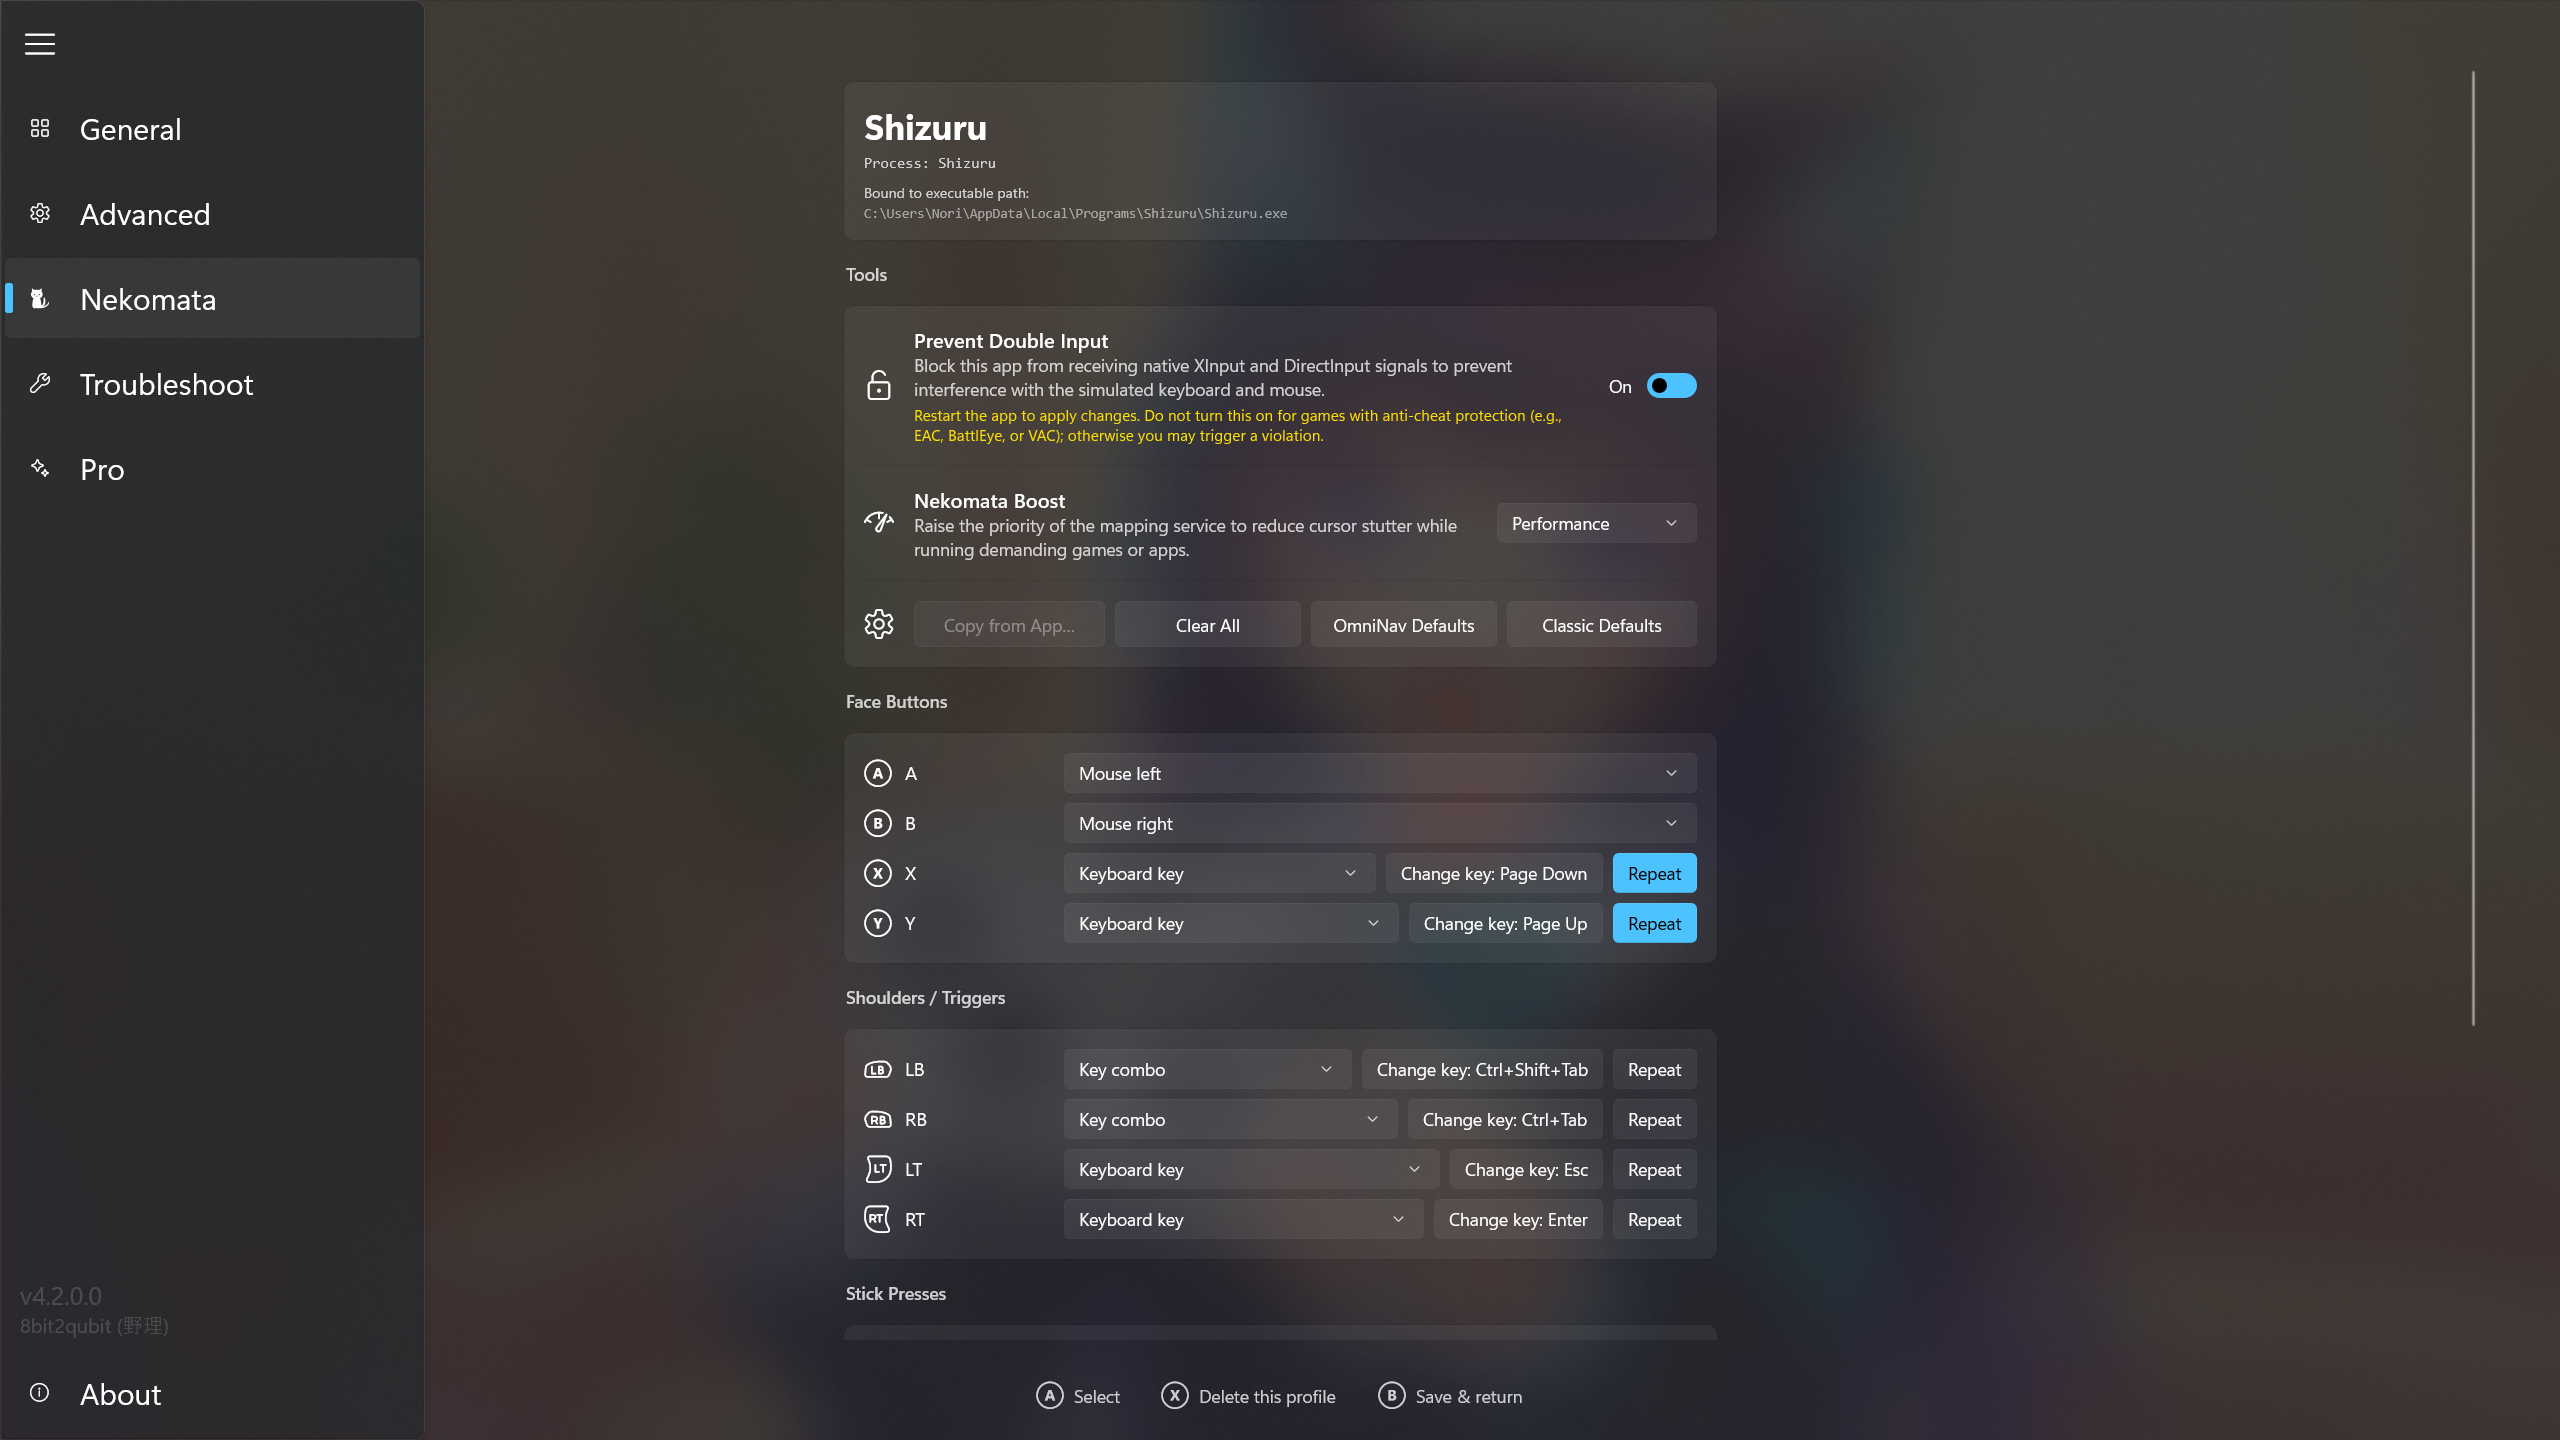
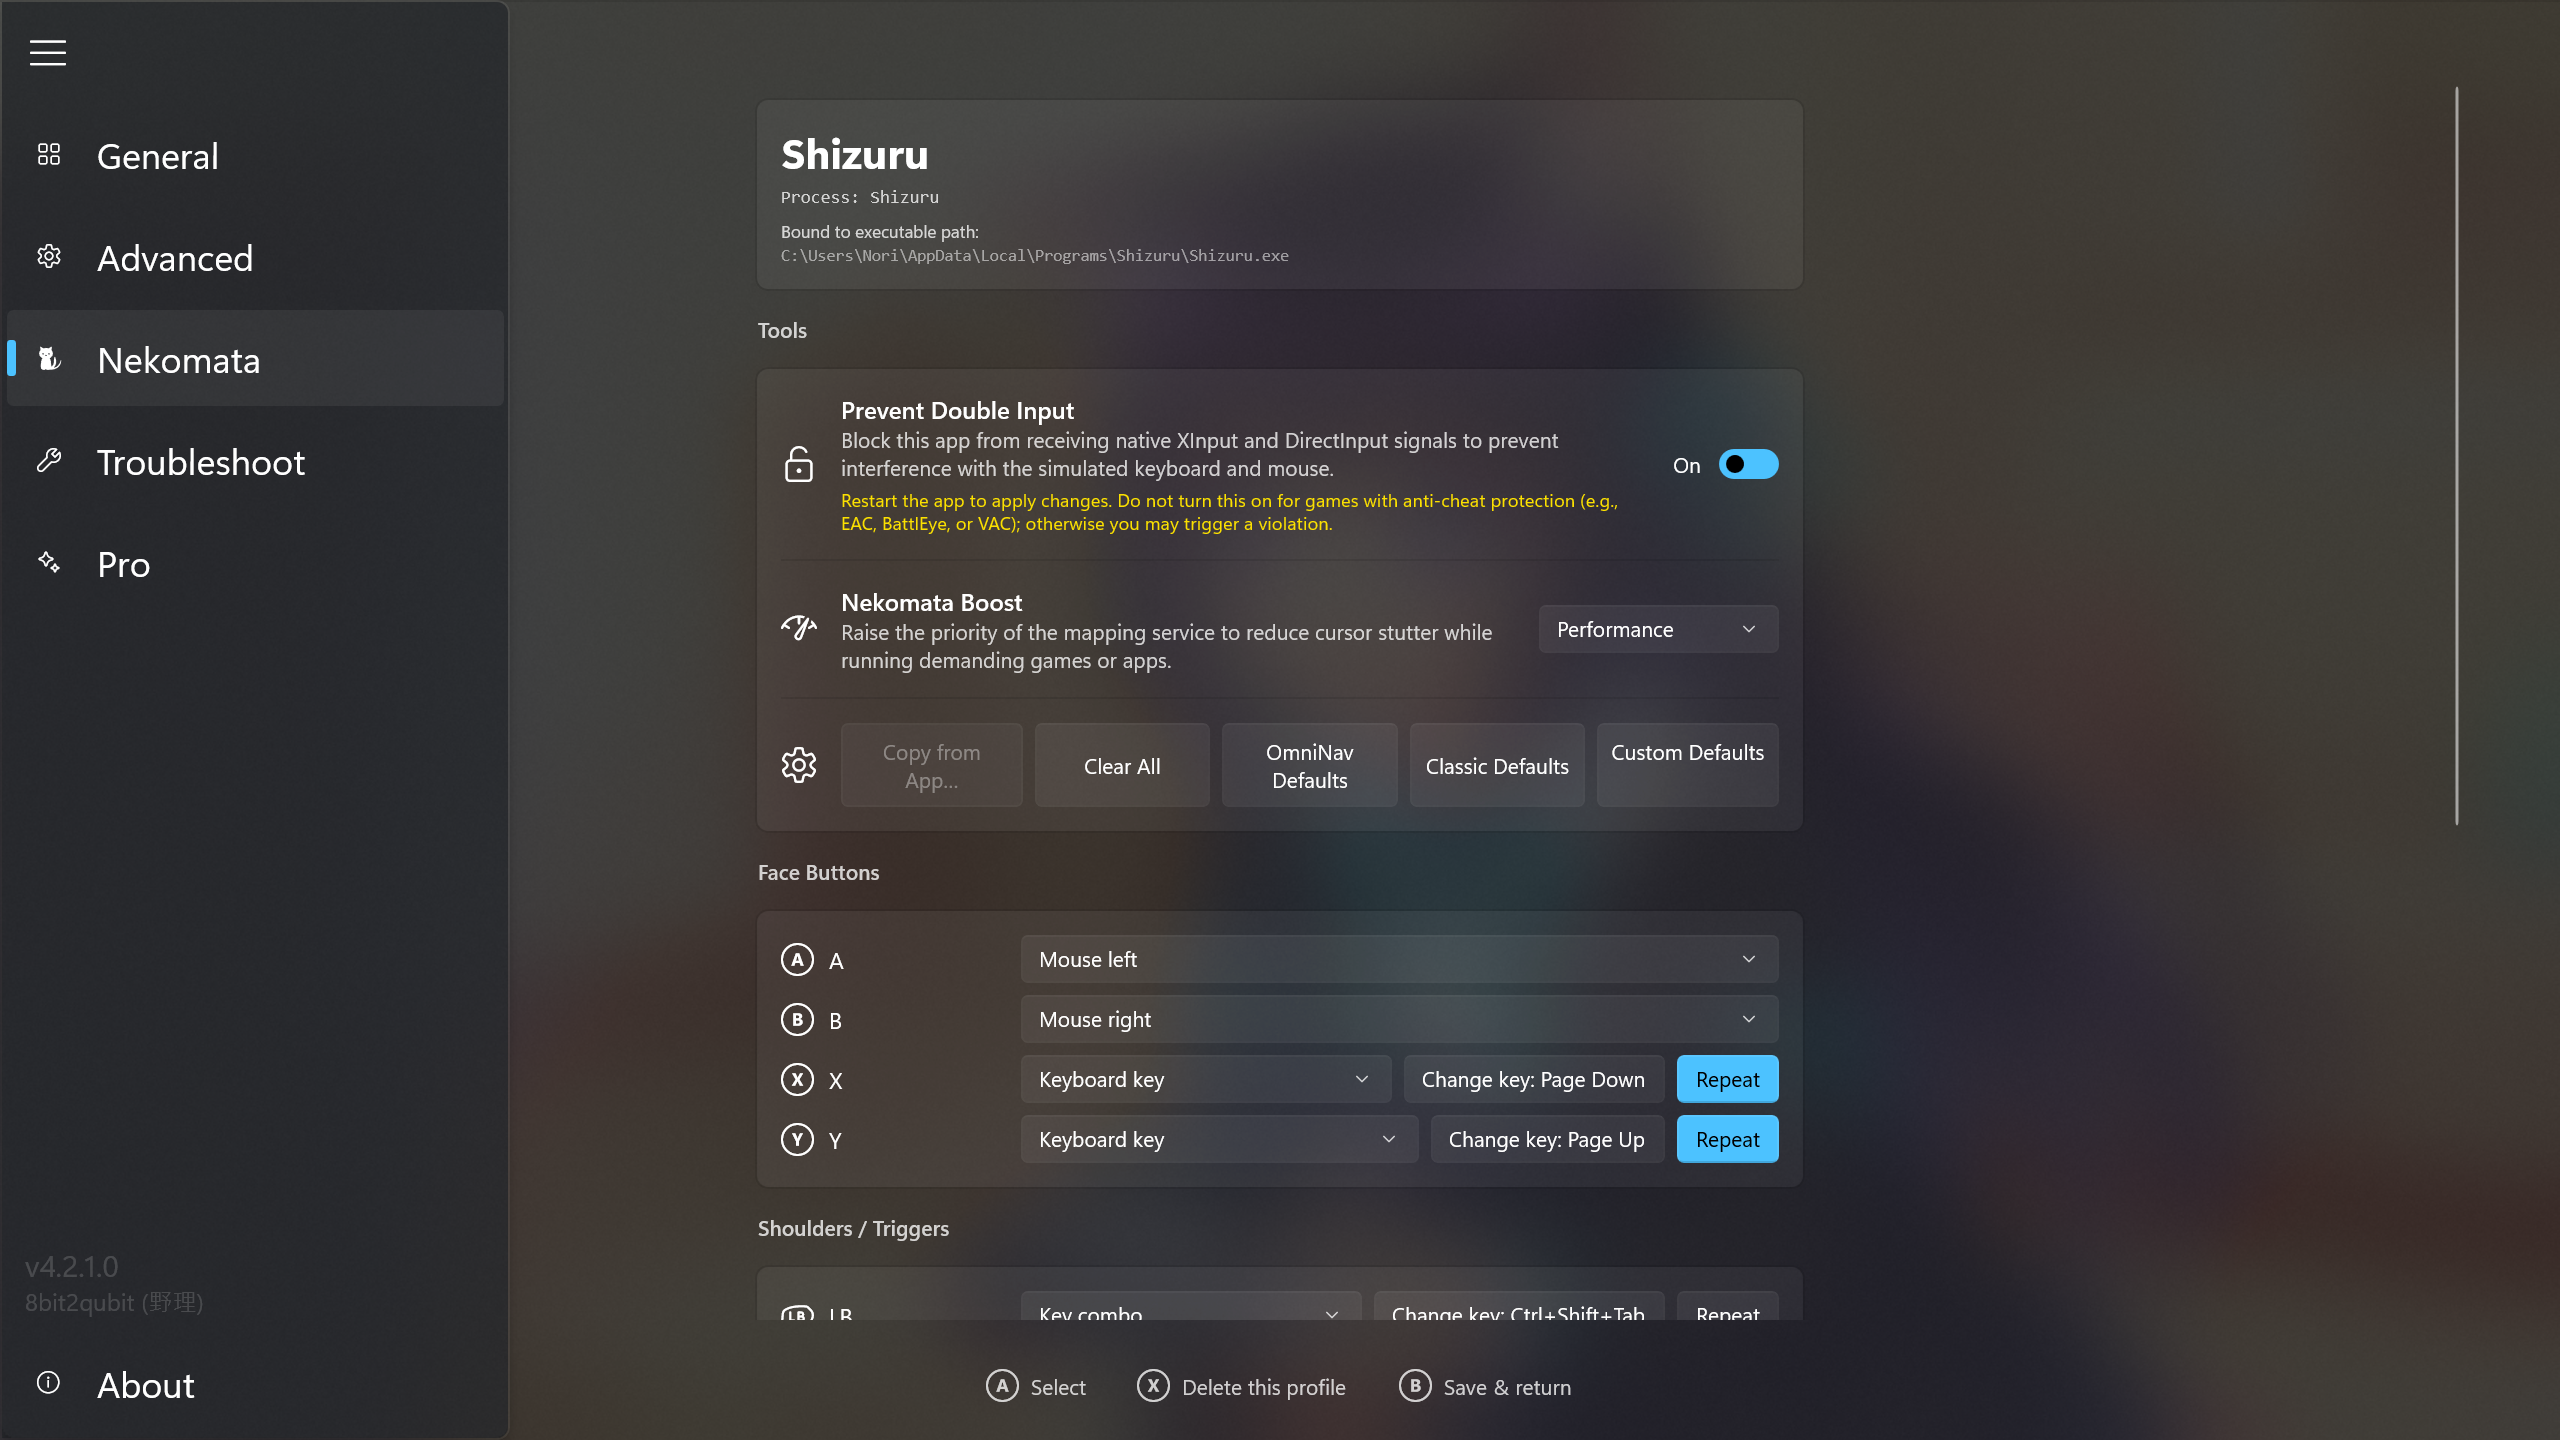
chore: Bump version to 4.2.1.0, guide first-time Xbox Mode (FSE) setup one step at a time, and refresh documentation screenshots

diff --git a/README.md b/README.md
@@ -49,7 +49,7 @@ Whenever Xbox Mode (FSE) activates, OmniConsole launches your configured gaming 
 - **Custom controller layout (Pro)** – Define your own default layout alongside OmniNav and Classic. Choose **Custom** under **Settings → Advanced → Nekomata → Controller Layout Preset**, then click **Edit…** to arrange the controller's inputs. Apps covered by built-in mapping pick it up right away, and every new app profile starts from it. The OmniCharm widget can switch to it as well.
 - **Administrator app support (Pro)** – Gamepad mappings reach apps and games that run as an administrator. Install it from **Settings → Advanced → Nekomata** and approve the administrator prompt, and Nekomata Mode extends to those apps, with the OmniCharm widget opening the mapping editor for them too.
 - **Screen keyboards from any button (Pro)** – Windows brings up a screen keyboard from Game Bar. Pro adds a direct route: assign one to a controller button and it opens without interrupting what you are doing. Pick the **Gamepad keyboard**, which you type on with the controller itself, or the classic **On-screen keyboard**, which you point at with the cursor. The On-screen keyboard also requires Administrator App Support.
-- **Nekomata Mode on the ROG Ally family (Pro)** – These consoles ship with the manufacturer's own gamepad mapping, and Nekomata defers to it. Pro makes that a choice: turn it on under **Settings → Advanced**, then set **Control Mode** to **Gamepad** in Command Center. Everything Nekomata does on a PC she does here too. It starts out off, and asks for confirmation the first time.
+- **Nekomata Mode on the ROG Ally family (Pro)** – These consoles ship with the manufacturer's own gamepad mapping, and Nekomata defers to it. Pro makes that a choice: turn it on under **Settings → Advanced**, then set **Control Mode** to **Gamepad** in Command Center. Everything Nekomata does on a desktop she does here too. It starts out off, and asks for confirmation the first time.
 - **Performance overlay controls (Pro)** – Game Bar comes with Microsoft's own **Performance** widget for watching your framerate and system usage while you play. Pro adds a separate set of controls for adjusting RivaTuner Statistics Server's on-screen display from inside OmniConsole. Under **Settings → Advanced → Performance Overlay** you can turn the on-screen display on or off, show framerate statistics, add a shadow behind the text, scale it up, and set a framerate limit. The OmniCharm widget carries the same controls on its **Overlay** tab, so they are within reach while a game is running. Requires Administrator App Support and RivaTuner Statistics Server.
 - **Gamepad Steam shortcuts** – The gamepad **⧉** button controls Steam Big Picture shortcuts: short press opens the **Steam Menu**, long press opens the **Quick Access Menu**. Long press **☰** in-game to open the **Steam In-Game Overlay**.
 - **Dedicated Settings entry** – A separate "**OmniConsole Settings**" entry in All Apps lets you change your default platform anytime.

diff --git a/README.zh-TW.md b/README.zh-TW.md
@@ -49,7 +49,7 @@ OmniConsole 在 PC 與掌機（ROG Xbox Ally X 等）上作為你的 Windows 11 
 - **自訂控制器版面（專業版）** – 在 OmniNav 與經典之外，自己定義一套預設版面。於**設定 → 進階 → 貓又 → 控制器預設版面**選擇**自訂**，再點 **編輯…** 編排手把的輸入位。內建映射涵蓋的程式會立即套用，新增的程式設定檔也以它為起點。OmniCharm 小工具同樣能切換到它。
 - **系統管理員程式支援（專業版）** – 手把映射能作用於以系統管理員身分執行的程式與遊戲。在**設定 → 進階 → 貓又**點選**安裝**並通過系統管理員授權，貓又模式就會延伸到這類程式，OmniCharm 小工具也能為它們開啟映射編輯器。
 - **用手把叫出螢幕鍵盤（專業版）** – Windows 本身就能從 Game Bar 叫出螢幕鍵盤。專業版多一條直達路線：把任一按鍵映射成喚出鍵盤，手邊的事不必中斷。可選用手把直接打字的**遊戲控制器鍵盤**，或以游標點按的**螢幕小鍵盤**。螢幕小鍵盤另需系統管理員程式支援。
-- **ROG Ally 家族主機上的貓又模式（專業版）** – 這類主機出廠即備有廠商自己的手把映射，貓又一向為它讓路。專業版讓這件事成為一個選擇：於**設定 → 進階**開啟，再到 Command Center（控制中心）把**控制模式**設為**遊戲控制器**。貓又在電腦上會的，在這裡她一樣會。它預設關閉，初次開啟時會請你確認。
+- **ROG Ally 家族主機上的貓又模式（專業版）** – 這類主機出廠即備有廠商自己的手把映射，貓又一向為它讓路。專業版讓這件事成為一個選擇：於**設定 → 進階**開啟，再到 Command Center（控制中心）把**控制模式**設為**遊戲控制器**。貓又在桌機上會的，在這裡她一樣會。它預設關閉，初次開啟時會請你確認。
 - **效能疊加層控制（專業版）** – Game Bar 本身就備有微軟提供的**效能**小工具，玩遊戲時就能看到幀率與系統使用量。專業版另外給你一組控制項，讓你在 OmniConsole 裡調整 RivaTuner Statistics Server 的螢幕顯示。於**設定 → 進階 → 效能疊加層**可開關螢幕顯示、顯示幀率統計、為文字加上陰影、放大顯示，以及設定幀率上限。OmniCharm 小工具的**疊加層**分頁也有同一組控制項，遊戲進行中伸手可及。需搭配系統管理員程式支援與 RivaTuner Statistics Server。
 - **手把 Steam 快捷鍵** – 手把 **⧉** 按鍵對應 Steam Big Picture 模式快捷：短按開啟 **Steam 選單**，長按喚出**快速存取選單**。在遊戲中長按 **☰** 可開啟 **Steam 遊戲內嵌介面**。
 - **專屬設定入口** – 「所有應用程式」中獨立的「**OmniConsole 設定**」項目，隨時可更改預設平台。
